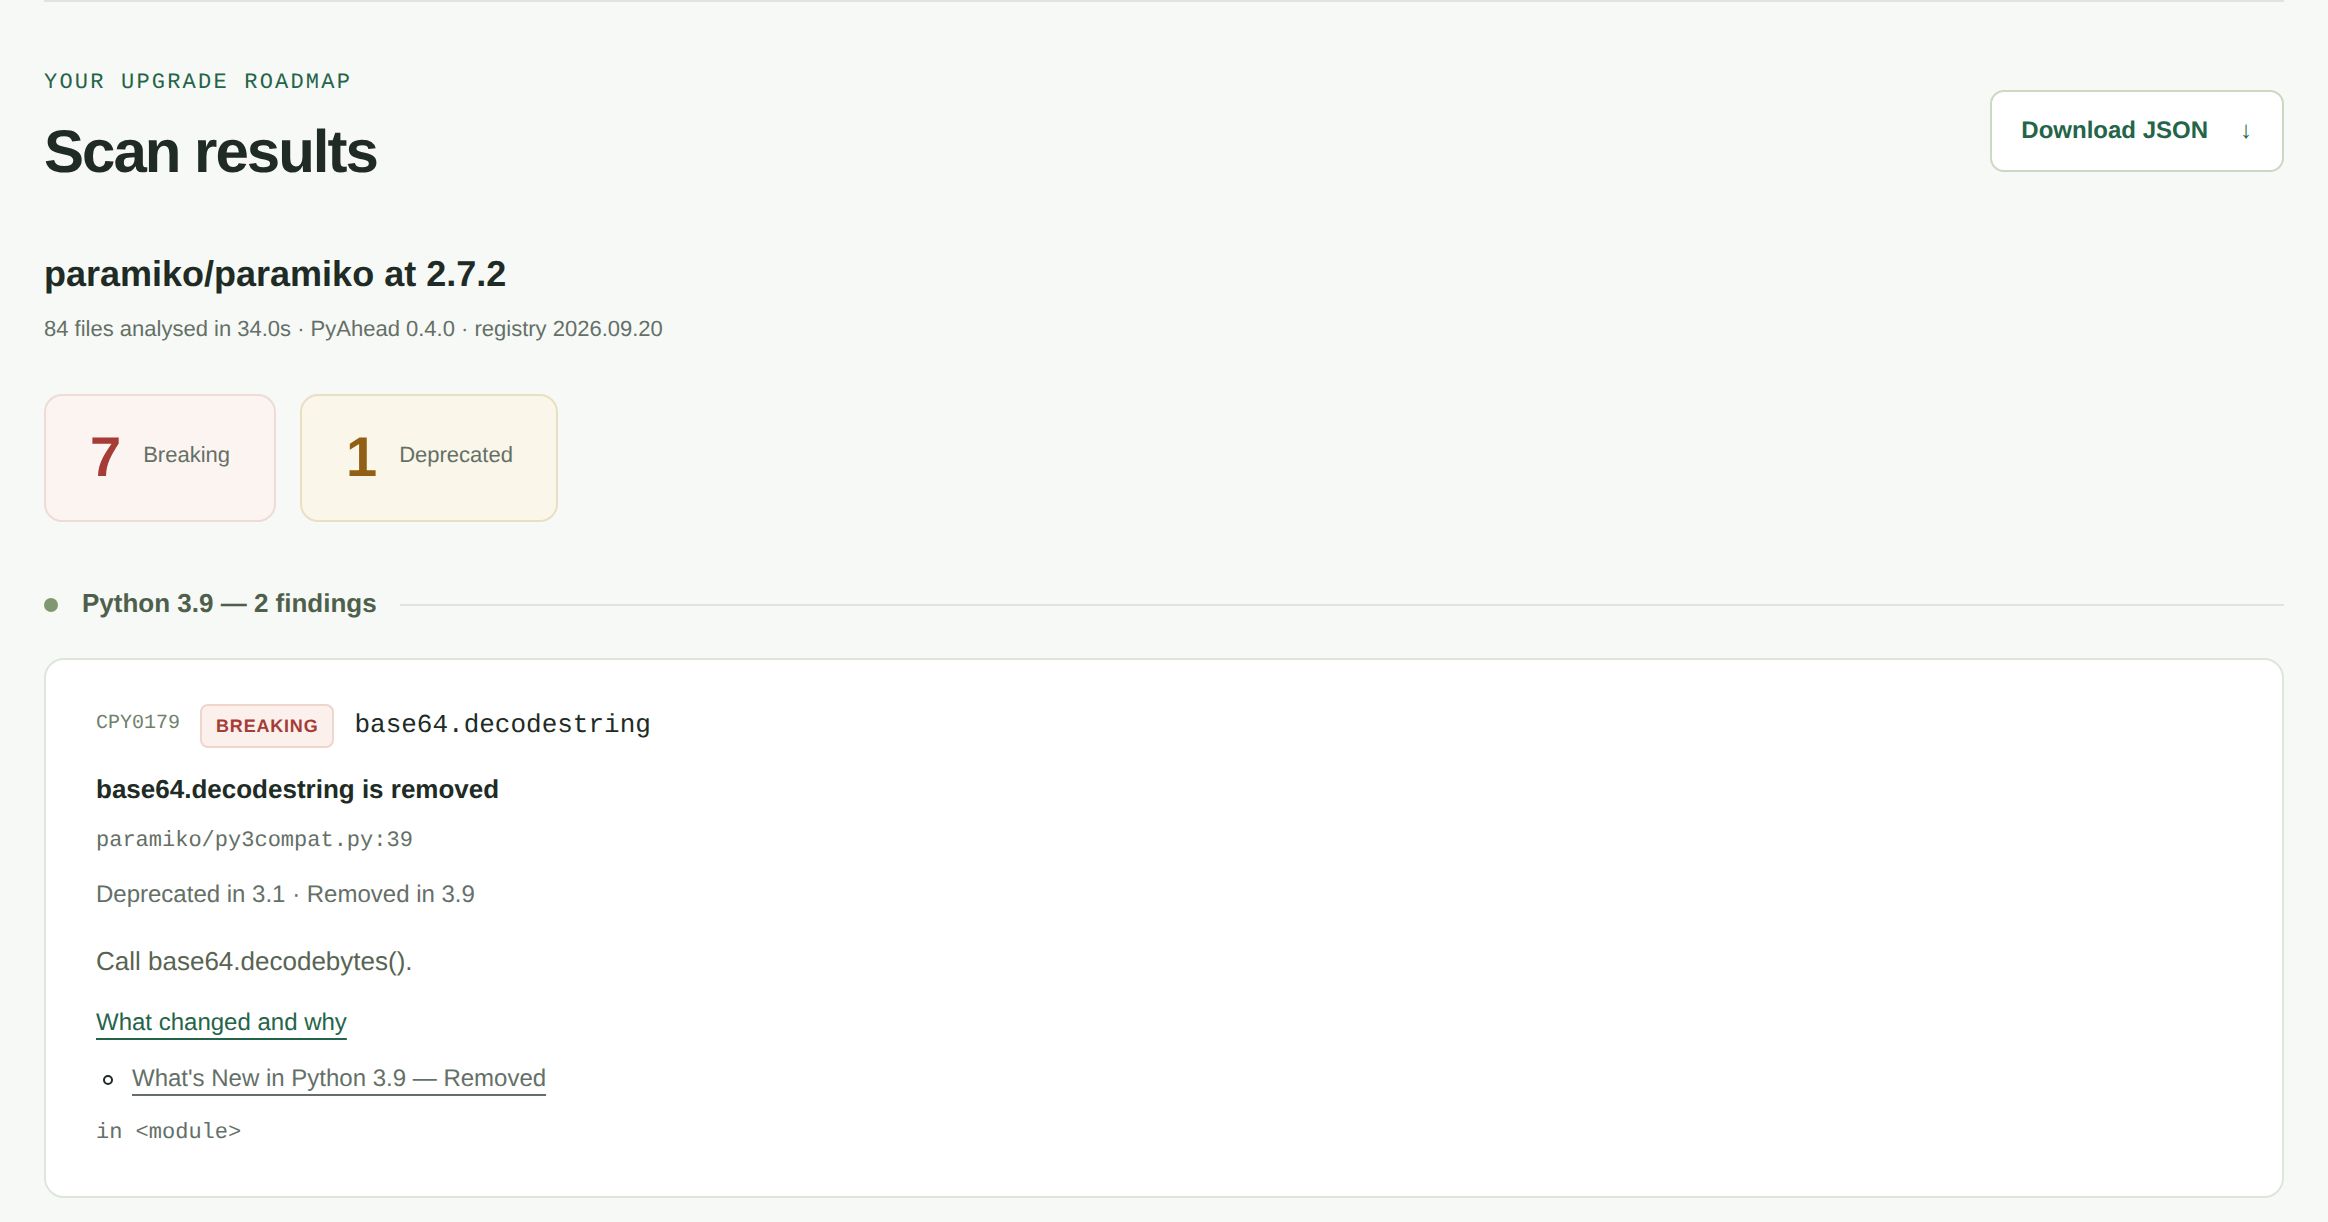
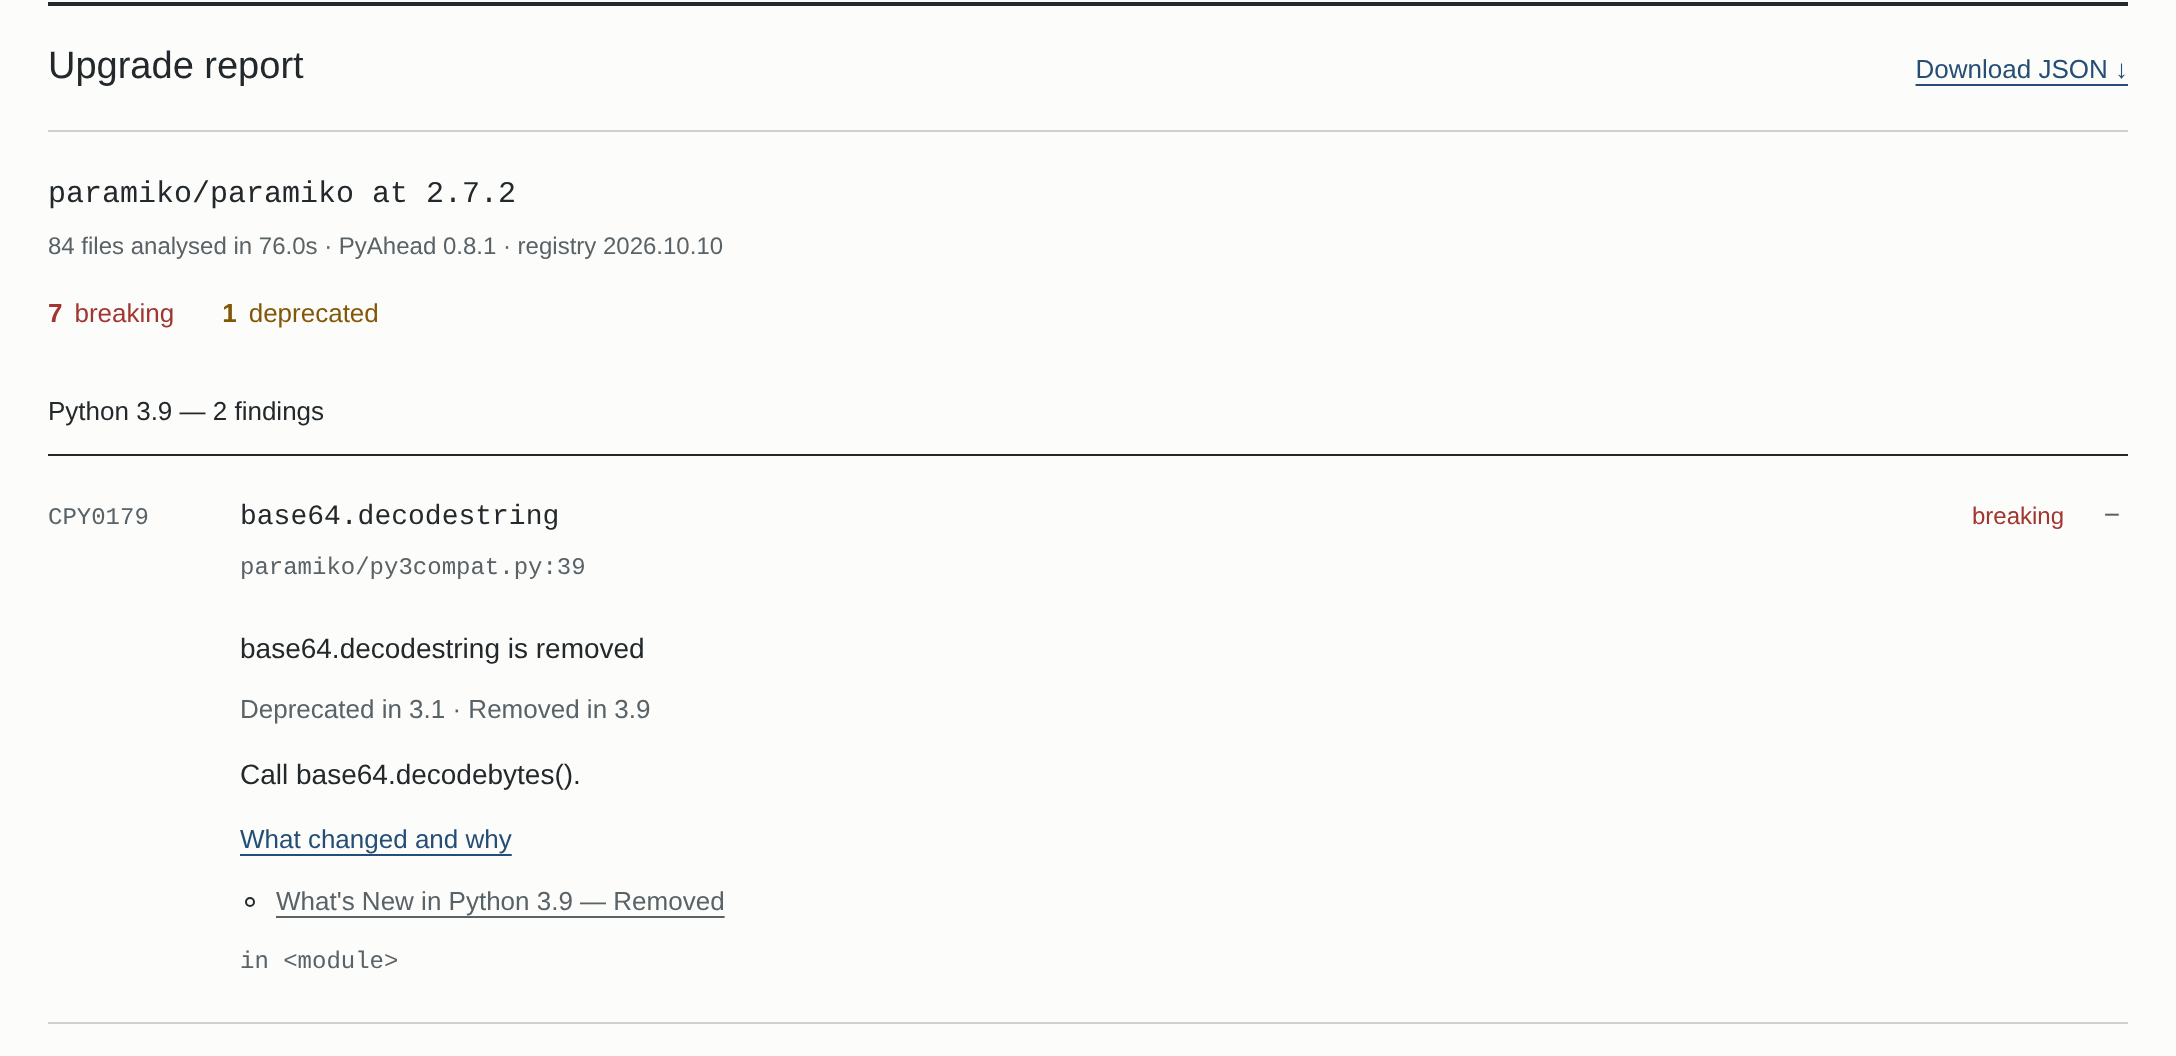
Refresh README for the redesigned 0.8.1 website

diff --git a/README.md b/README.md
@@ -5,8 +5,12 @@
 <h1 align="center">PyAhead</h1>
 
 <p align="center">
-  <b>A little foresight for your Python code.</b><br>
-  Find the CPython deprecations and removals a codebase will hit — and when — before the upgrade does.
+  <b>Check your next Python upgrade.</b><br>
+  Find deprecated and removed CPython APIs. Run locally, in your browser, or in GitHub Actions.
+</p>
+
+<p align="center">
+  <a href="https://www.diegor.it/pyahead/">Browser scanner</a> · <a href="#install">Install the CLI</a> · <a href="#ci-and-review-workflows">GitHub Actions</a>
 </p>
 
 <p align="center">
@@ -17,9 +21,14 @@
 </p>
 
 <p align="center">
-  <a href="https://www.diegor.it/pyahead/"><img src="https://raw.githubusercontent.com/diegorusso/pyahead/main/.github/readme/site.png" width="920" alt="The PyAhead website after scanning paramiko 2.7.2 for Python 3.9 through 3.14: 7 breaking and 1 deprecated finding, the first a base64.decodestring call marked deprecated in 3.1 and removed in 3.9, with the replacement and a link to the Python 3.9 release notes."></a>
+  <a href="https://www.diegor.it/pyahead/">
+    <picture>
+      <source media="(prefers-color-scheme: dark)" srcset="https://raw.githubusercontent.com/diegorusso/pyahead/main/.github/readme/site-dark.png">
+      <img src="https://raw.githubusercontent.com/diegorusso/pyahead/main/.github/readme/site.png" width="920" alt="PyAhead 0.8.1 upgrade report for paramiko 2.7.2: 7 breaking and 1 deprecated finding, grouped by Python version, with a finding expanded to show its location, timeline, replacement and source documentation.">
+    </picture>
+  </a>
   <br>
-  <sub><a href="https://www.diegor.it/pyahead/">www.diegor.it/pyahead</a> — paramiko 2.7.2 scanned in the browser for Python 3.9 through 3.14. Nothing leaves your machine.</sub>
+  <sub><a href="https://www.diegor.it/pyahead/">www.diegor.it/pyahead</a> — paramiko 2.7.2 scanned with PyAhead 0.8.1 for Python 3.9 through 3.14. Analysis runs in your browser.</sub>
 </p>
 
 PyAhead scans a repository without importing or executing its code and presents
@@ -32,13 +41,20 @@ rule in its registry cites the change at the version it happened.
 [**www.diegor.it/pyahead**](https://www.diegor.it/pyahead/) scans a public
 GitHub repository in your browser. PyAhead runs there as WebAssembly: the page
 fetches the repository's Python files, analyses them on your machine, and
-renders the report. Nothing is uploaded, nothing is stored, and no account is
-needed — there is no server to send anything to.
+renders findings grouped by Python version. Expand a finding for its location,
+timeline, guidance and source links, or download the JSON report.
+
+The color-mode button offers Light, Dark and Auto; Auto follows your device's
+setting. Only an explicit theme choice is saved between visits, alongside the
+browser's ordinary download cache. Repository URLs, source and reports are not
+saved by the application, and no account is needed. Analysis runs locally;
+repository content is not uploaded to a PyAhead service.
 
 It reads public repositories only, and fetches file by file under a cap, so a
 large repository produces a scan that says it is incomplete rather than one
-that looks clean. For private code, continuous scanning, or CI, install the
-command below.
+that looks clean. For private code or repeatable checks,
+[install the CLI](#install). To scan on pushes or pull requests,
+[use the GitHub Action](#ci-and-review-workflows).
 
 ## Limitations — read before use
 
